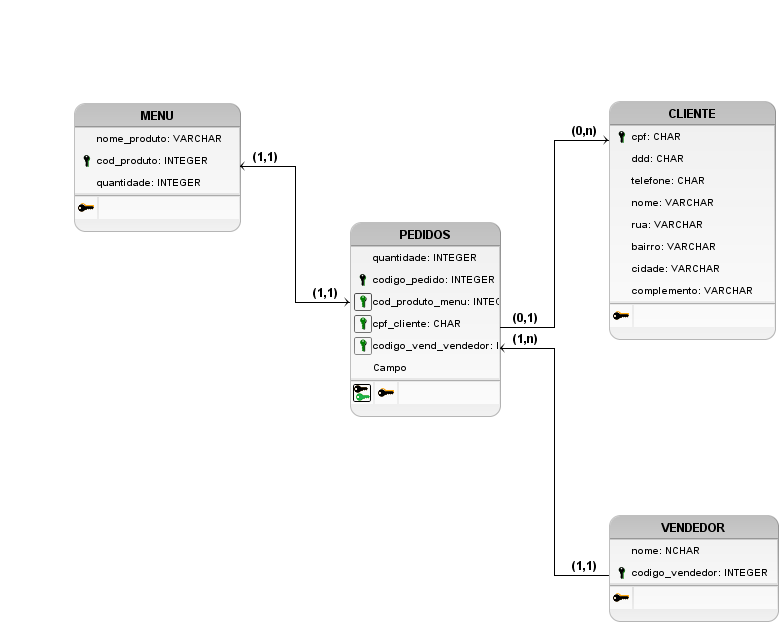
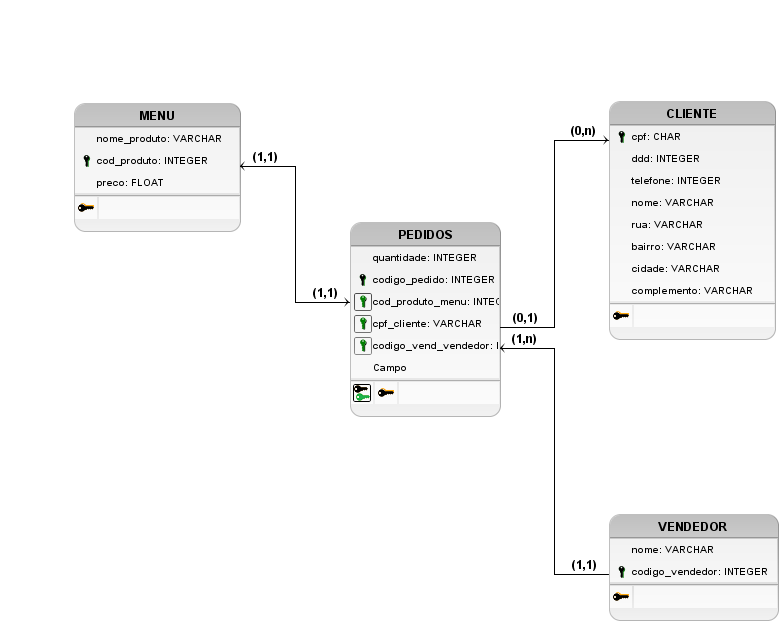
Inserido as imagens de todas as inserções dos dados nas tabelas e de todas as consultas feitas ao banco de dados, atualizado alguns tipos no modelo lógico que foram revisados

diff --git a/README.md b/README.md
@@ -81,7 +81,7 @@ O menu é igual para todos os vendedores. Ao fazer o pedido são enviados a quan
 ![Alt text](https://github.com/FelipeGante/E-Market/blob/master/images/modelo_logico.png?raw=true "Modelo Lógico")
 
 ### 7	MODELO FÍSICO<br>
-        CREATE TABLE trabalho_bd.cliente (
+        CREATE TABLE trabalho_bd.CLIENTE (
         cpf varchar(11) NOT NULL,
         telefone int4 NOT NULL,
         nome varchar(80) NOT NULL,
@@ -93,19 +93,19 @@ O menu é igual para todos os vendedores. Ao fazer o pedido são enviados a quan
         CONSTRAINT cliente_pkey PRIMARY KEY (cpf)
         );
 
-        CREATE TABLE trabalho_bd.pedidos (
+        CREATE TABLE trabalho_bd.PEDIDOS (
         quantidade int4 NULL,
         codigo_pedido int4 NOT NULL,
         CONSTRAINT codigo_pedido_pk PRIMARY KEY (codigo_pedido)
         );
 
-        CREATE TABLE trabalho_bd.vendedor_1 (
+        CREATE TABLE trabalho_bd.VENDEDOR (
         nome varchar(80) NOT NULL,
         codigo_vendedor int4 NOT NULL,
         CONSTRAINT codigo_vendedor_pk PRIMARY KEY (codigo_vendedor)
         );
 
-        CREATE TABLE trabalho_bd.menu (
+        CREATE TABLE trabalho_bd.MENU (
         nome_produto varchar(40) NULL,
         codigo_produto int4 NOT NULL,
         quantidade int4 NULL,
